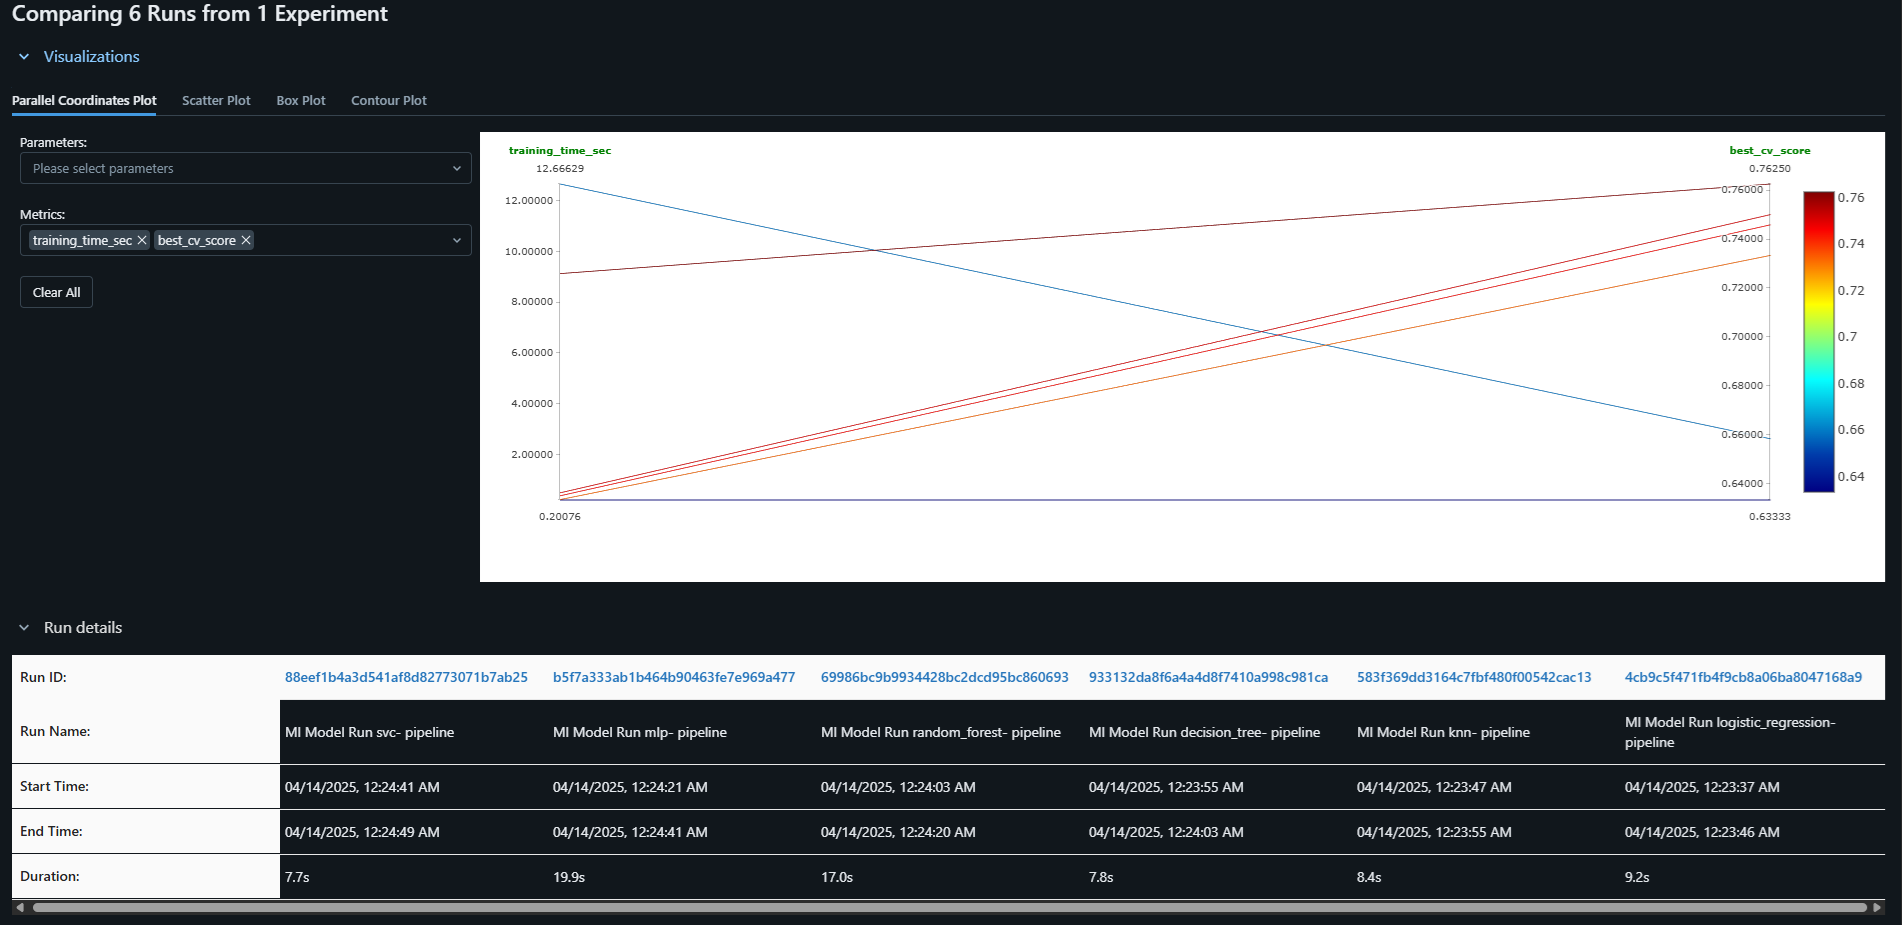
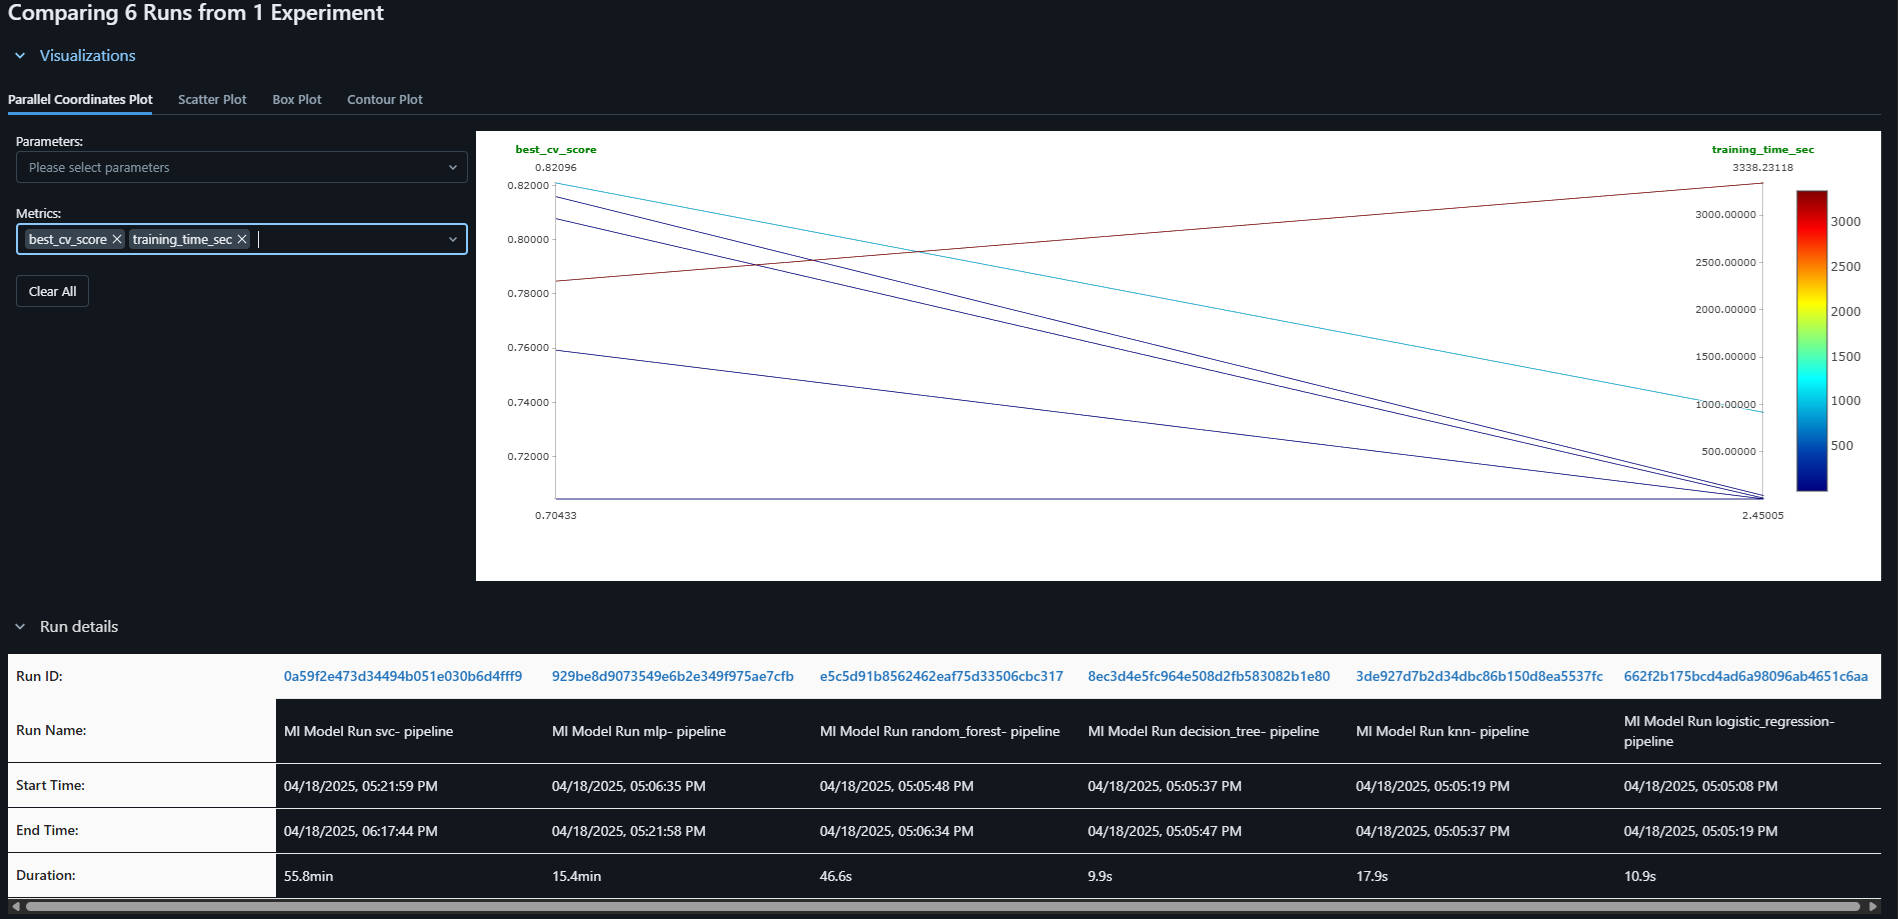
update readme new dataset

diff --git a/README.md b/README.md
@@ -134,9 +134,12 @@ A imagem apresenta uma visualização comparativa de 6 execuções (runs) de mod
 
 Cada linha no gráfico representa uma execução, e a sua trajectória liga os valores das duas métricas, training_time_sec: tempo total de treino de cada modelo (em segundos) e best_cv_score: melhor pontuação obtida em validação cruzada em accuracy. 
 
-O modelo MLP (Multilayer Perceptron) destaca-se como o mais demorado a treinar, com cerca de 19,9 segundos, mas também obteve uma das melhores pontuações em best_cv_score (~0.75). O modelo SVC (Support Vector Classifier) teve o menor tempo de treino (~7.7s), mas apresenta uma performance mais fraca, com best_cv_score próximo de 0.66.
-Modelos como random_forest, decision_tree, logistic_regression e knn demonstram um bom equilíbrio entre tempo de treino e qualidade de classificação.
+O modelo MLP (Multilayer Perceptron) obteve o melhor desempenho global, com um best_cv_score de 0.821, e um tempo de treino relativamente elevado: 917 segundos (~15.4 minutos).
+O Random Forest surge logo a seguir em termos de performance, com best_cv_score de 0.816, mas com uma grande vantagem no tempo de treino, demorando apenas 38.65 segundos.
+Já o modelo SVC (Support Vector Classifier), embora tenha alcançado um score competitivo (0.785), teve um tempo de treino extremamente elevado, de 3338 segundos (~55.8 minutos), o que o torna menos eficiente computacionalmente.
+Entre os modelos mais leves, o KNN apresenta uma boa performance (0.808) com apenas 11.42 segundos de treino, o Decision Tree tem best_cv_score de 0.759 e treina em apenas 3.59 segundos e o Logistic Regression foi o mais rápido a treinar (2.45 segundos), mas teve o best_cv_score mais baixo: 0.704.~
 
+O Random Forest é uma excelente escolha em termos de trade-off entre desempenho e eficiência, dai ter sido esolhido como o modelo Champion
 
 ![alt text](utils/pics/compare0.png)
 
